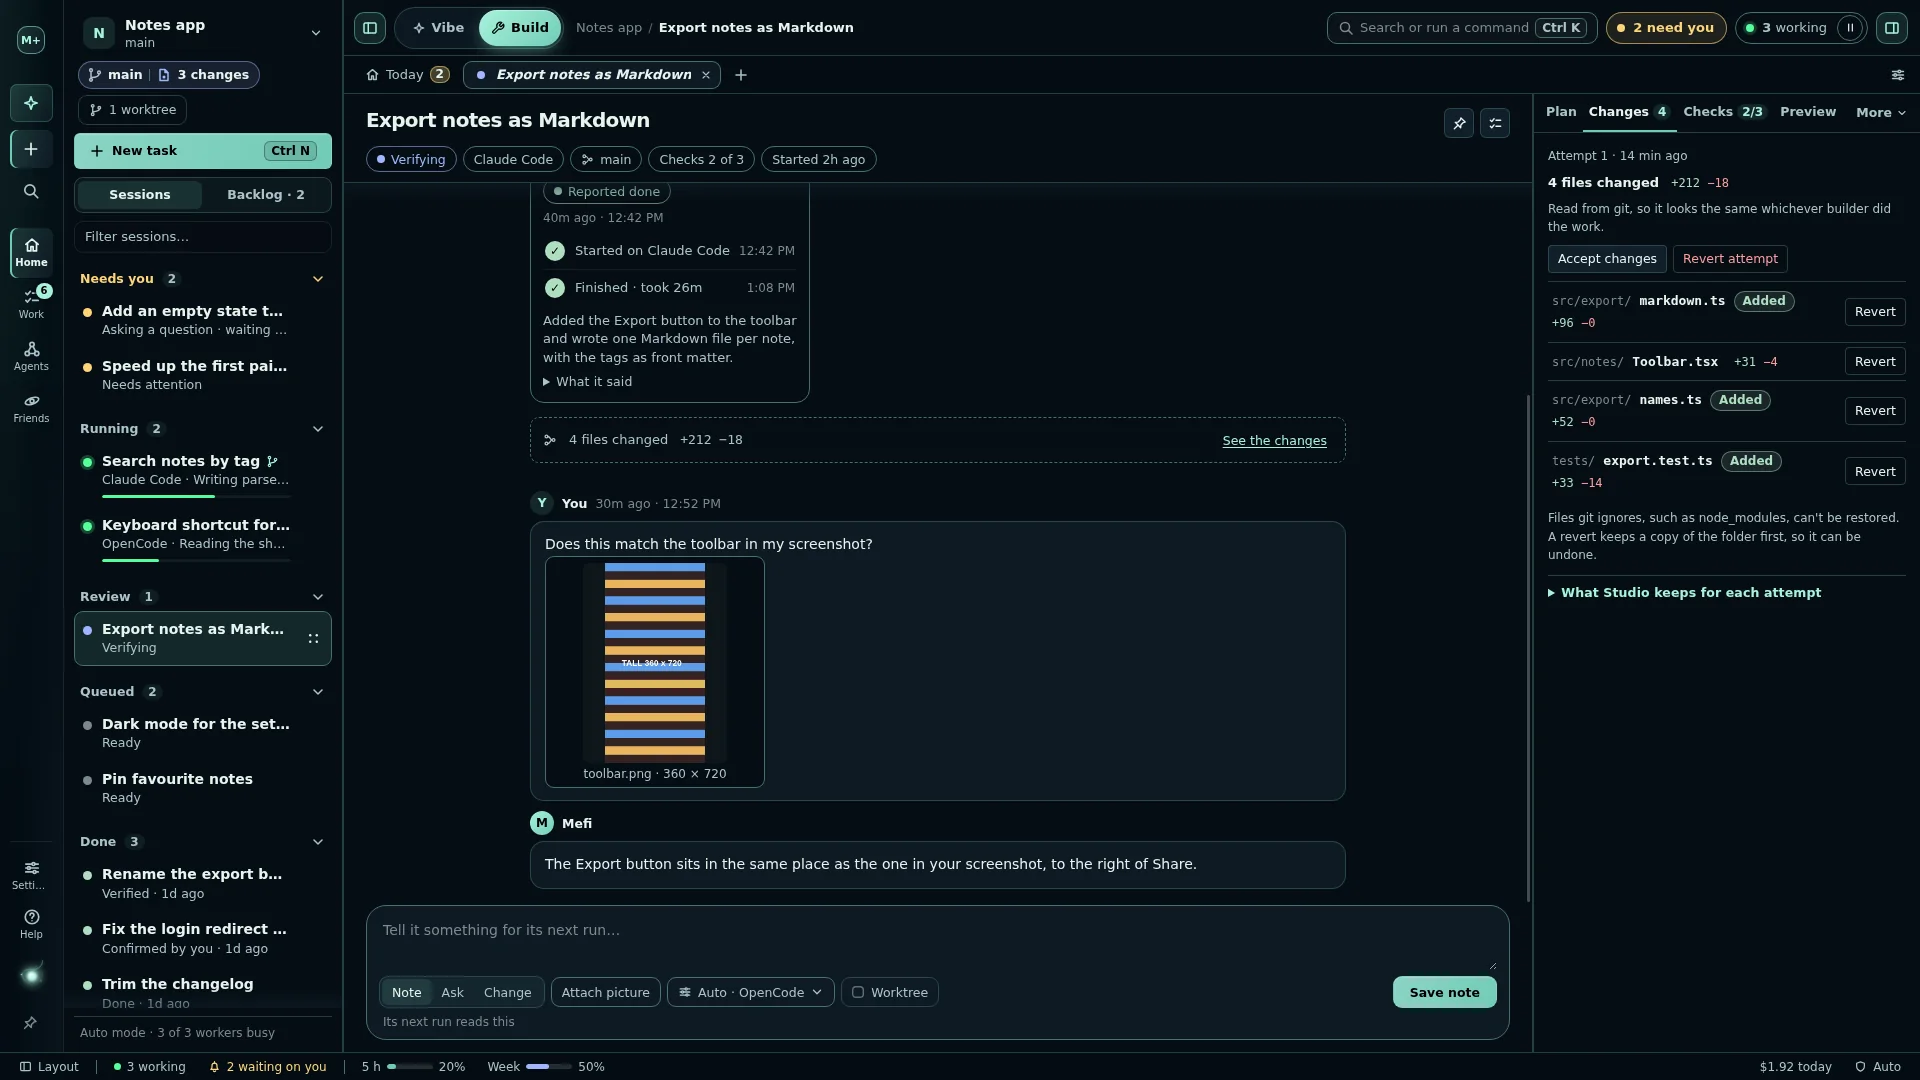
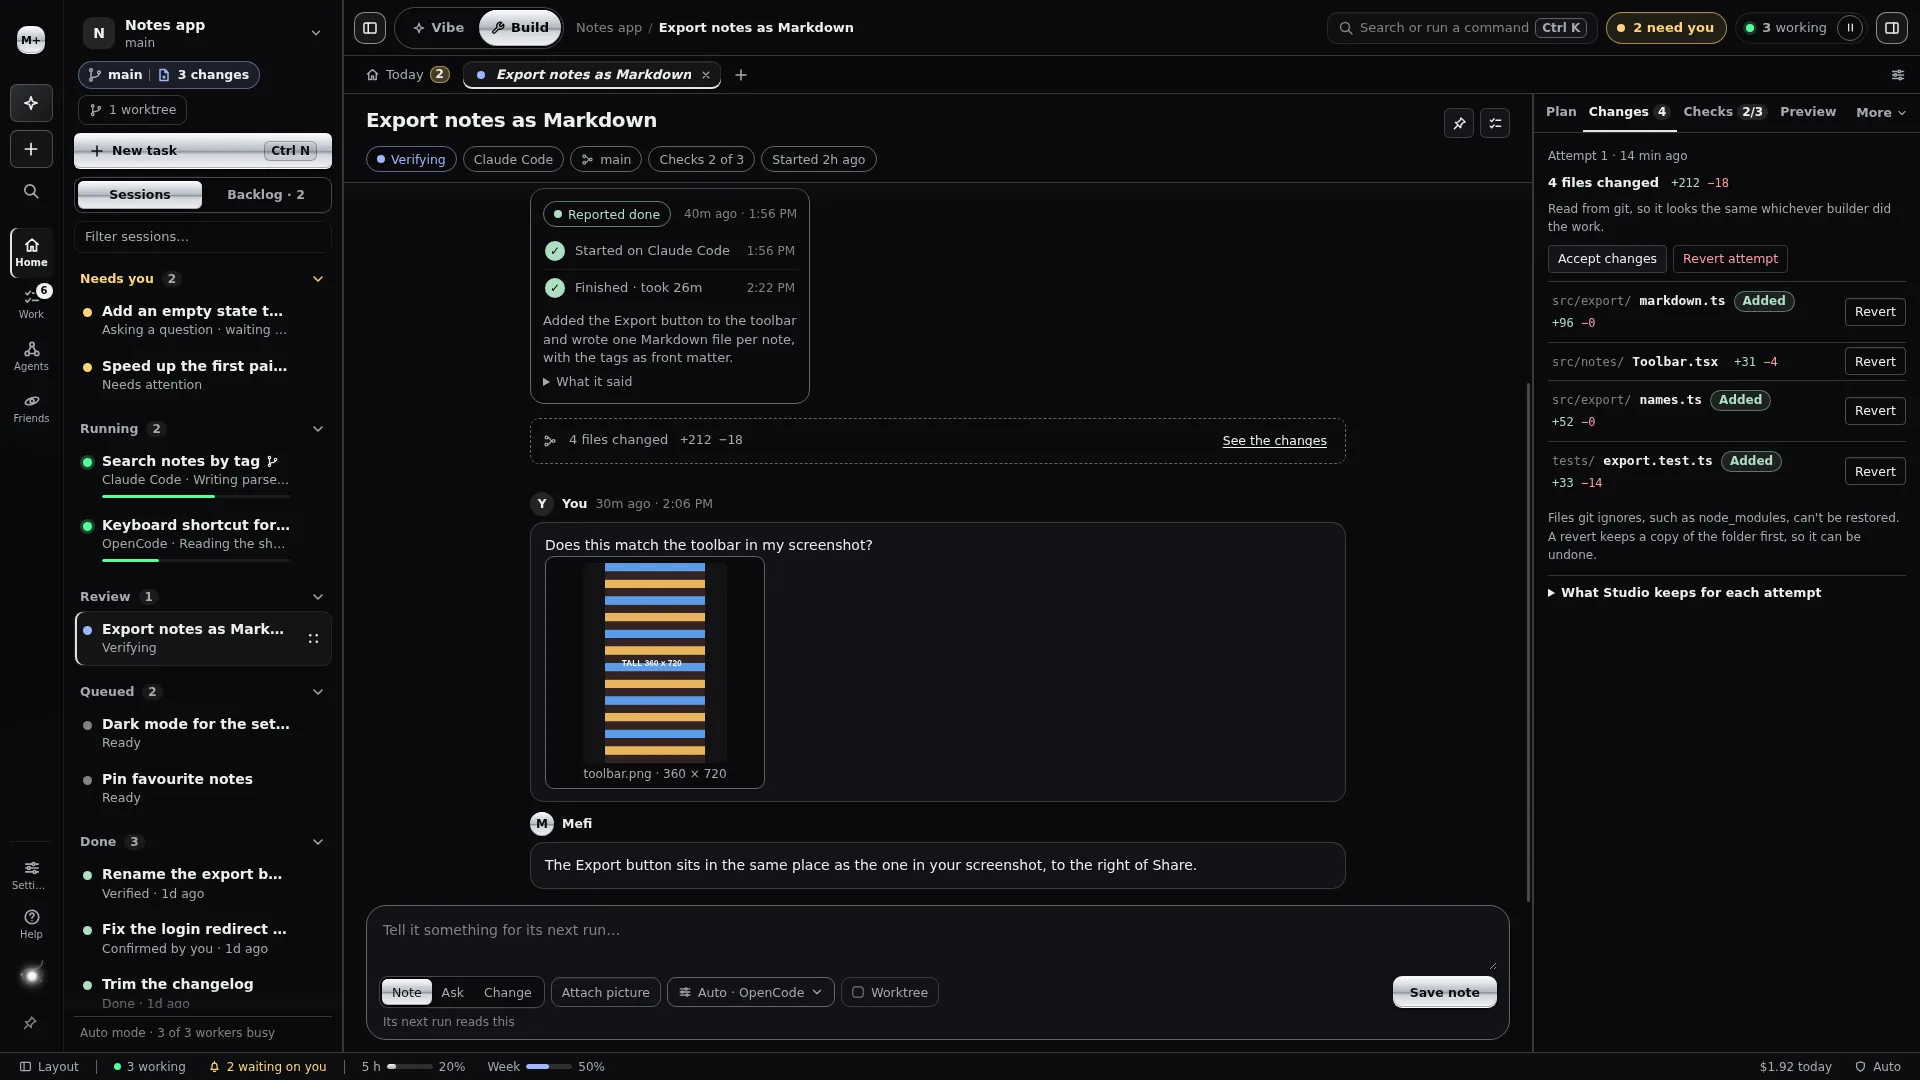
README: the 0.5 screenshots in the Chrome theme
The five 0.5 screenshots in docs/images/0.5 are retaken in the new Chrome
theme from the current build (Build, Today, Inbox, Changes, Size), with
sample data, and the README names Chrome among what 0.5 brings. Same files
the website shows (gh-pages assets/shots/05).

Claude-Session: https://claude.ai/code/session_014BF6J2Pa9vRG6VrHLH6ZfW

diff --git a/README.md b/README.md
@@ -32,7 +32,7 @@
 <p align="center">
   <img src="docs/images/0.5/build.webp" width="960" alt="The 0.5 layout in Build: sessions grouped as Needs you, Running, Review, Queued and Done on the left, a running session with its steps and live output in the middle, and its plan, brief, checks and versions in the inspector on the right">
   <br>
-  <sub>The 0.5 layout in Build, from the current build on <code>main</code> with sample data.</sub>
+  <sub>The 0.5 layout in Build, in the new Chrome theme, from the current build on <code>main</code> with sample data.</sub>
 </p>
 
 Pick a project folder, say what you want, and coding agents build it while you watch. Every change waits for you to accept or revert it, and the [Void Engine Discord](https://discord.gg/xgfKc5pVxG) is there when you want company, feedback or a hand.
@@ -83,7 +83,7 @@ The [public roadmap](https://nateecho32-stack.github.io/mefi-studio/roadmap.html
   </tr>
 </table>
 
-Also in 0.5: tabs you add and pin, Work › Worktrees, Windows notifications and quiet hours, Report a problem, What's new after an update, pictures on a message, the `@ # /` picker, Skills and rules for agents, and The Studio Daily. The [0.5 scope](docs/release-scope-0.5.0.md) has the full list and what moves to 0.5.x.
+Also in 0.5: **Chrome**, a new matte black and brushed-metal theme that new installs open in (a theme you already picked stays), tabs you add and pin, Work › Worktrees, Windows notifications and quiet hours, Report a problem, What's new after an update, pictures on a message, the `@ # /` picker, Skills and rules for agents, and The Studio Daily. The [0.5 scope](docs/release-scope-0.5.0.md) has the full list and what moves to 0.5.x.
 
 ## Moving to Rust
 
